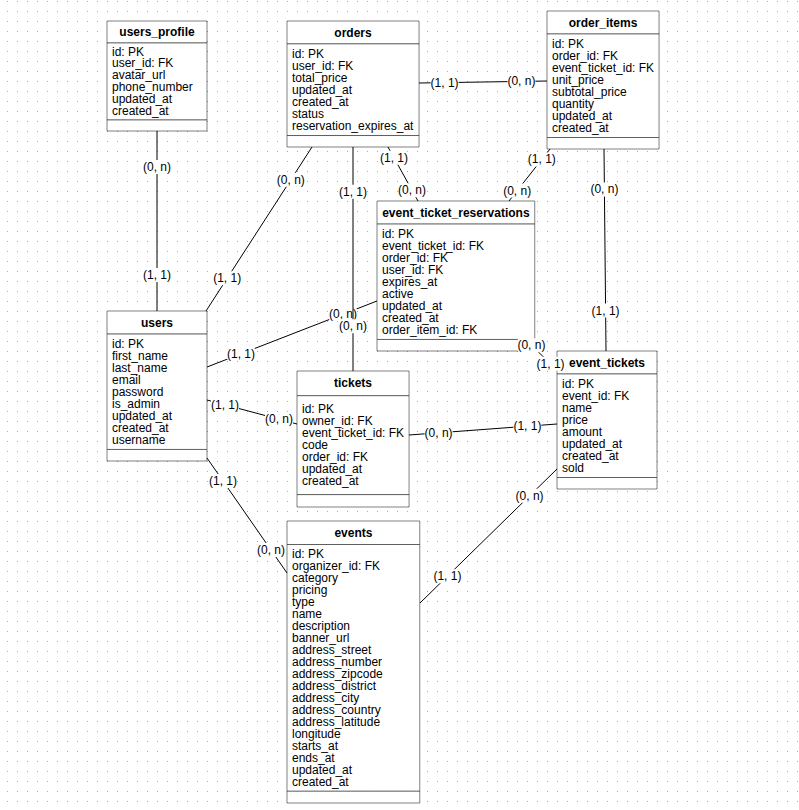
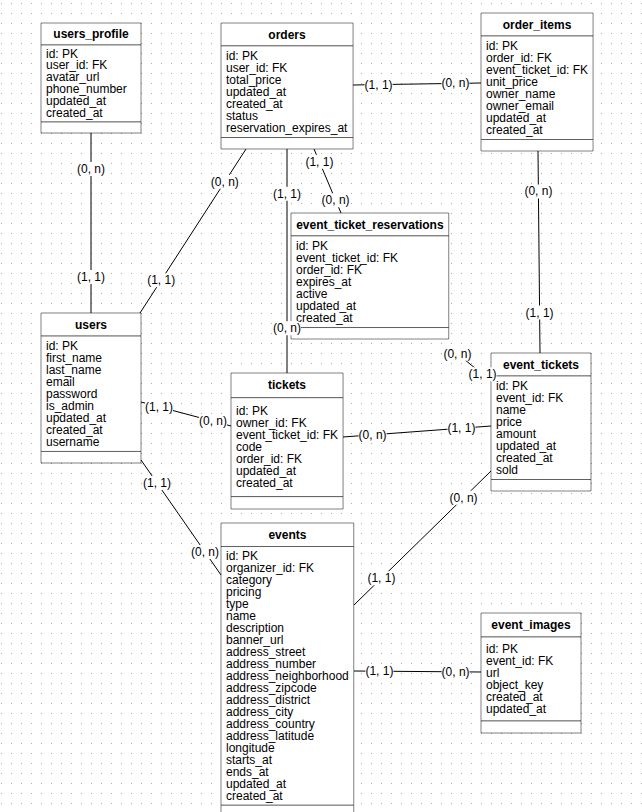
feat: create orders module and orders, order item drizzle entities

diff --git a/src/modules/orders/entities/orders.entity.ts b/src/modules/orders/entities/orders.entity.ts
@@ -1,0 +1,33 @@
+import { sql } from 'drizzle-orm';
+import {
+  AnyPgColumn,
+  bigint,
+  pgEnum,
+  pgTable,
+  timestamp,
+  uuid,
+} from 'drizzle-orm/pg-core';
+
+import { users, events } from '@/infra/database/orm/drizzle/schema';
+
+const order_statuses = pgEnum('status', [
+  'PENDING',
+  'AWAITING_PAYMENT',
+  'PAID',
+  'EXPIRED',
+  'CANCELLED',
+  'FAILED',
+]);
+
+export const orders = pgTable('orders', {
+  id: uuid()
+    .primaryKey()
+    .default(sql`gen_random_uuid`),
+  user_id: uuid().references((): AnyPgColumn => users.id),
+  event_id: uuid().references((): AnyPgColumn => events.id),
+  status: order_statuses().notNull(),
+  total_price: bigint({ mode: 'number' }).notNull(),
+  reservation_expires_at: timestamp(),
+  updated_at: timestamp().defaultNow(),
+  created_at: timestamp().defaultNow(),
+});

diff --git a/src/modules/orders/entities/order-item.entity.ts b/src/modules/orders/entities/order-item.entity.ts
@@ -1,0 +1,24 @@
+import { sql } from 'drizzle-orm';
+import {
+  AnyPgColumn,
+  bigint,
+  pgTable,
+  timestamp,
+  uuid,
+  varchar,
+} from 'drizzle-orm/pg-core';
+
+import { orders, event_tickets } from '@/infra/database/orm/drizzle/schema';
+
+export const order_item = pgTable('order_item', {
+  id: uuid()
+    .primaryKey()
+    .default(sql`gen_random_uuid`),
+  order_id: uuid().references((): AnyPgColumn => orders.id),
+  event_ticket_id: uuid().references((): AnyPgColumn => event_tickets.id),
+  owner_name: varchar({ length: 255 }).notNull(),
+  owner_email: varchar({ length: 255 }).notNull(),
+  unit_price: bigint({ mode: 'number' }).notNull(),
+  updated_at: timestamp().defaultNow(),
+  created_at: timestamp().defaultNow(),
+});

diff --git a/src/app.module.ts b/src/app.module.ts
@@ -10,6 +10,7 @@ import { HttpRequestInterceptor } from '@/infra/interceptors';
 import { CategoriesModule } from './modules/categories/categories.module';
 import { EventsModule } from './modules/events/events.module';
 import { AddressModule } from './modules/address/address.module';
+import { OrdersModule } from './modules/orders/orders.module';
 
 @Module({
   imports: [
@@ -24,6 +25,7 @@ import { AddressModule } from './modules/address/address.module';
     CategoriesModule,
     EventsModule,
     AddressModule,
+    OrdersModule,
   ],
   providers: [
     {

diff --git a/src/infra/database/orm/drizzle/schema.ts b/src/infra/database/orm/drizzle/schema.ts
@@ -5,3 +5,5 @@ export * from '@/modules/shared/entities/countries.entity';
 export * from '@/modules/events/entities/event.entity';
 export * from '@/modules/events/entities/event-tickets.entity';
 export * from '@/modules/events/entities/event-images.entity';
+export * from '@/modules/orders/entities/orders.entity';
+export * from '@/modules/orders/entities/order-item.entity';

diff --git a/src/modules/orders/orders.module.ts b/src/modules/orders/orders.module.ts
@@ -1,0 +1,9 @@
+import { Module } from '@nestjs/common';
+import { OrdersService } from './orders.service';
+import { OrdersController } from './orders.controller';
+
+@Module({
+  controllers: [OrdersController],
+  providers: [OrdersService],
+})
+export class OrdersModule {}

diff --git a/src/modules/orders/orders.controller.ts b/src/modules/orders/orders.controller.ts
@@ -1,0 +1,7 @@
+import { Controller } from '@nestjs/common';
+import { OrdersService } from './orders.service';
+
+@Controller('orders')
+export class OrdersController {
+  constructor(private readonly ordersService: OrdersService) {}
+}

diff --git a/src/modules/orders/orders.service.ts b/src/modules/orders/orders.service.ts
@@ -1,0 +1,4 @@
+import { Injectable } from '@nestjs/common';
+
+@Injectable()
+export class OrdersService {}

diff --git a/src/modules/orders/entities/index.ts b/src/modules/orders/entities/index.ts
@@ -1,0 +1,2 @@
+export * from './orders.entity';
+export * from './order-item.entity';
